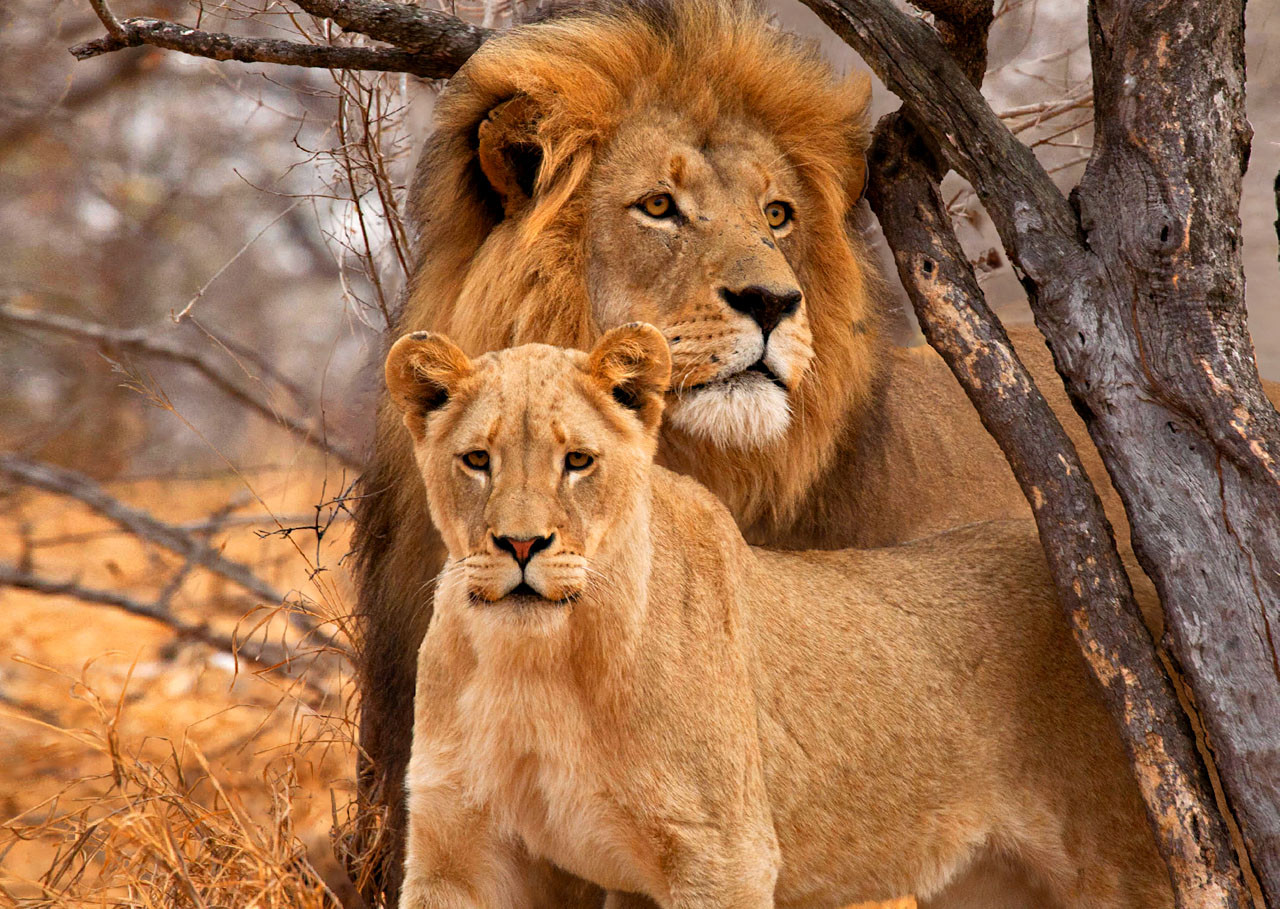
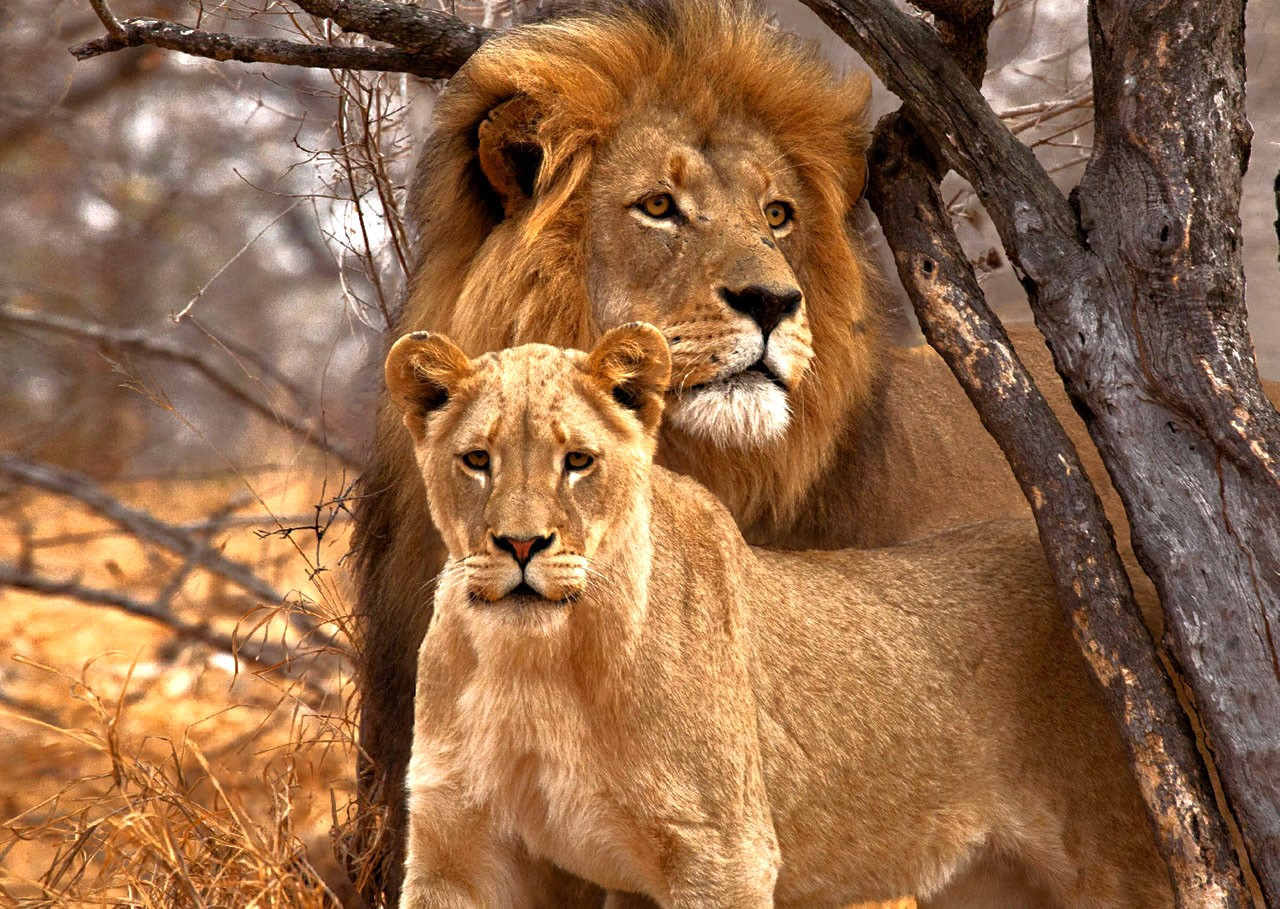
re-added monkey section and adjusted layout

diff --git a/index.html b/index.html
@@ -58,7 +58,7 @@
             <div>
                 <h2 id="giraffe-title">Giraffes</h2>
                 <!-- image of two giraffes hugging -->
-                <img id="giraffe-img" src="./assets/images/giraffe couple.jpeg"
+                <img id="giraffe-img" src="./assets/images/giraffe couple.jpg"
                     alt="giraffe couple">
 
                 <!-- names of giraffes at our zoo -->
@@ -87,7 +87,7 @@
         <section>
         <h2 id="lion-title">Lions</h2>
         <!-- image of Simba on Pride Rock -->
-        <img id="lion-img" src="./assets/images/lion and lioness-copy.jpg" alt="lion and lioness">
+        <img id="lion-img" src="./assets/images/lion and lioness.jpg" alt="lion and lioness">
 
         <!-- names of lions at our zoo -->
         <ul id="lion-names">
@@ -112,33 +112,38 @@
     </section>
 
 
-    <!-- <section>
-        <h2>Monkeys</h2>
+    <section>
+        <h2 id="monkey-title">Monkeys</h2>
 
-        image of a monkey in a tree
-        <img src="https://www.si.edu/sites/default/files/newsdesk/press_releases/thumbnail_45.jpg"
+        <!-- image of a monkey in a tree -->
+        <img id="monkey-img" src="https://www.si.edu/sites/default/files/newsdesk/press_releases/thumbnail_45.jpg"
             alt="monkey in a tree">
 
-        names of monkeys at our zoo
-        <ul>
+        <!-- names of monkeys at our zoo -->
+        <ul id="monkey-names">
             <li>Cookie</li>
             <li>Earl</li>
             <li>Banana Pudding</li>
         </ul>
 
-        short summary about monkeys
+        <!-- short summary about monkeys -->
+    <div id="monkey-sum">
         <summary>
-            <p>Monkeys are a large and diverse mammal group that includes most primates.
-                Humans, chimpanzees (Pan troglodytes) and other apes share an ancestor
-                with monkeys but belong to a separate group of primates that diverged
-                from monkeys millions of years ago. Monkeys are typically smaller than
-                apes and usually have tails, which apes lack.</p>
+            <p>Monkeys are a large and diverse mammal group that includes most primates.</p>
+            <p>Humans, chimpanzees (Pan troglodytes) and other apes share an ancestor</p>   
+            <p>with monkeys but belong to a separate group of primates that diverged</p> 
+            <p>from monkeys millions of years ago. Monkeys are typically smaller than</p>    
+            <p>apes and usually have tails, which apes lack.</p>
         </summary>
-
-        url link to get more info about monkeys
-        <a href="https://www.livescience.com/27944-monkeys.html">Click here to learn more!</a>
+    
+        <!-- url link to get more info about monkeys -->
+        <a id="monkey-link" href="https://www.livescience.com/27944-monkeys.html">Click here to learn more!</a>
+    </div>
     </section>
-    <section>
+
+
+
+    <!-- <section>
         <h2>Alligators</h2>
 
         image of an alligator on water
